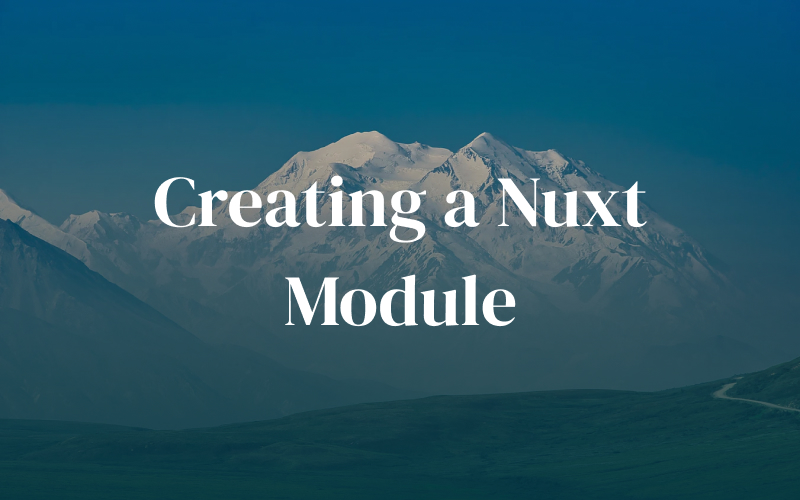
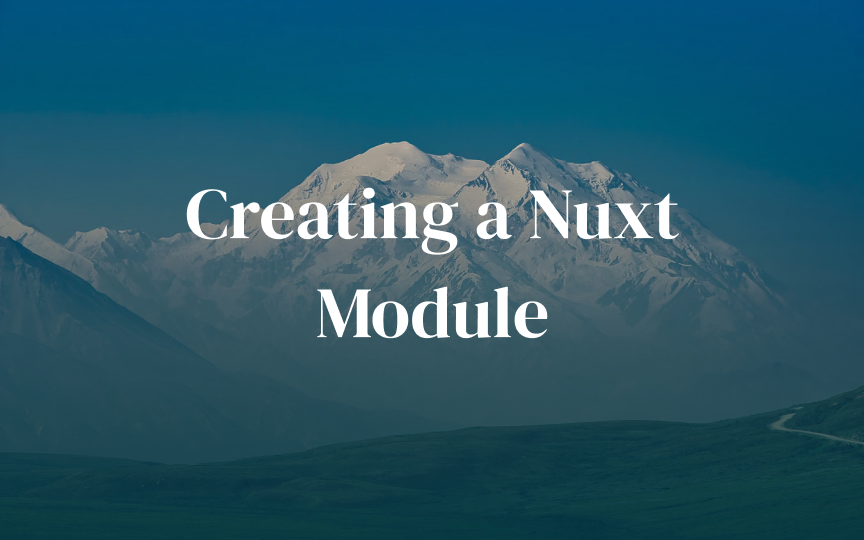
content: Fit image in wrapper

Changed region(s): [[0.1875, 0.33, 0.8125, 0.66]]

diff --git a/components/molecules/AppImage.vue b/components/molecules/AppImage.vue
@@ -6,7 +6,7 @@
       once: true
     }"
     :style="[intristicRatioStyle]"
-    class="overflow-hidden relative light:bg-light-surface dark:bg-dark-surface"
+    class="relative overflow-hidden light:bg-light-surface dark:bg-dark-surface"
   >
     <div />
     <template v-if="isTest || isDev">
@@ -15,7 +15,14 @@
         ref="img"
         :src="`${host}/${src}`"
         :alt="alt"
-        class="w-full opacity-0 transition-opacity duration-500"
+        class="
+          object-cover
+          w-full
+          h-full
+          transition-opacity
+          duration-500
+          opacity-0
+        "
         :class="[ratio && 'absolute top-0 left-0']"
       />
     </template>
@@ -62,7 +69,14 @@
         `"
         :sizes="sizes"
         :alt="alt"
-        class="w-full opacity-0 transition-opacity duration-500"
+        class="
+          object-cover
+          w-full
+          h-full
+          transition-opacity
+          duration-500
+          opacity-0
+        "
         :class="[ratio && 'absolute top-0 left-0']"
       />
     </template>
